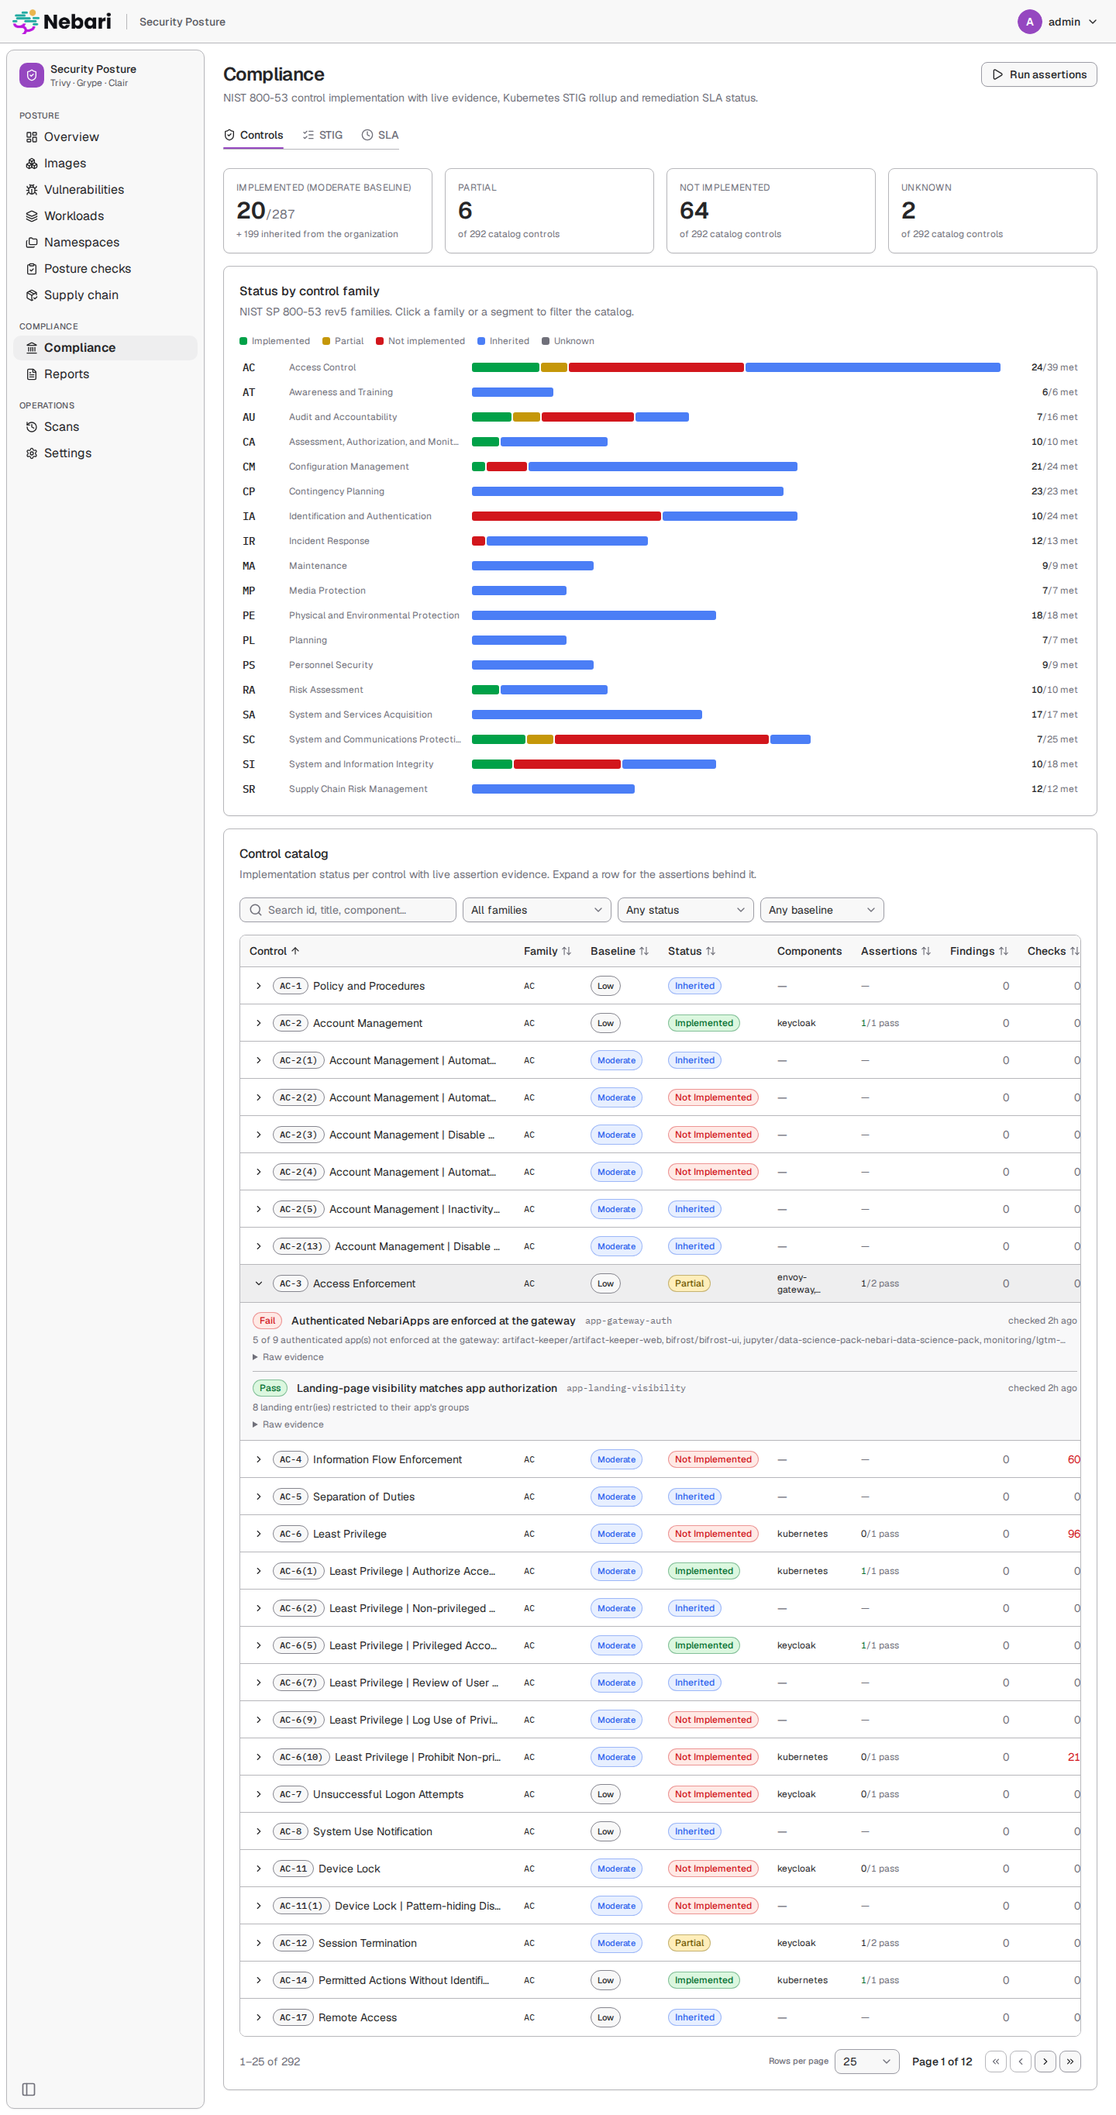
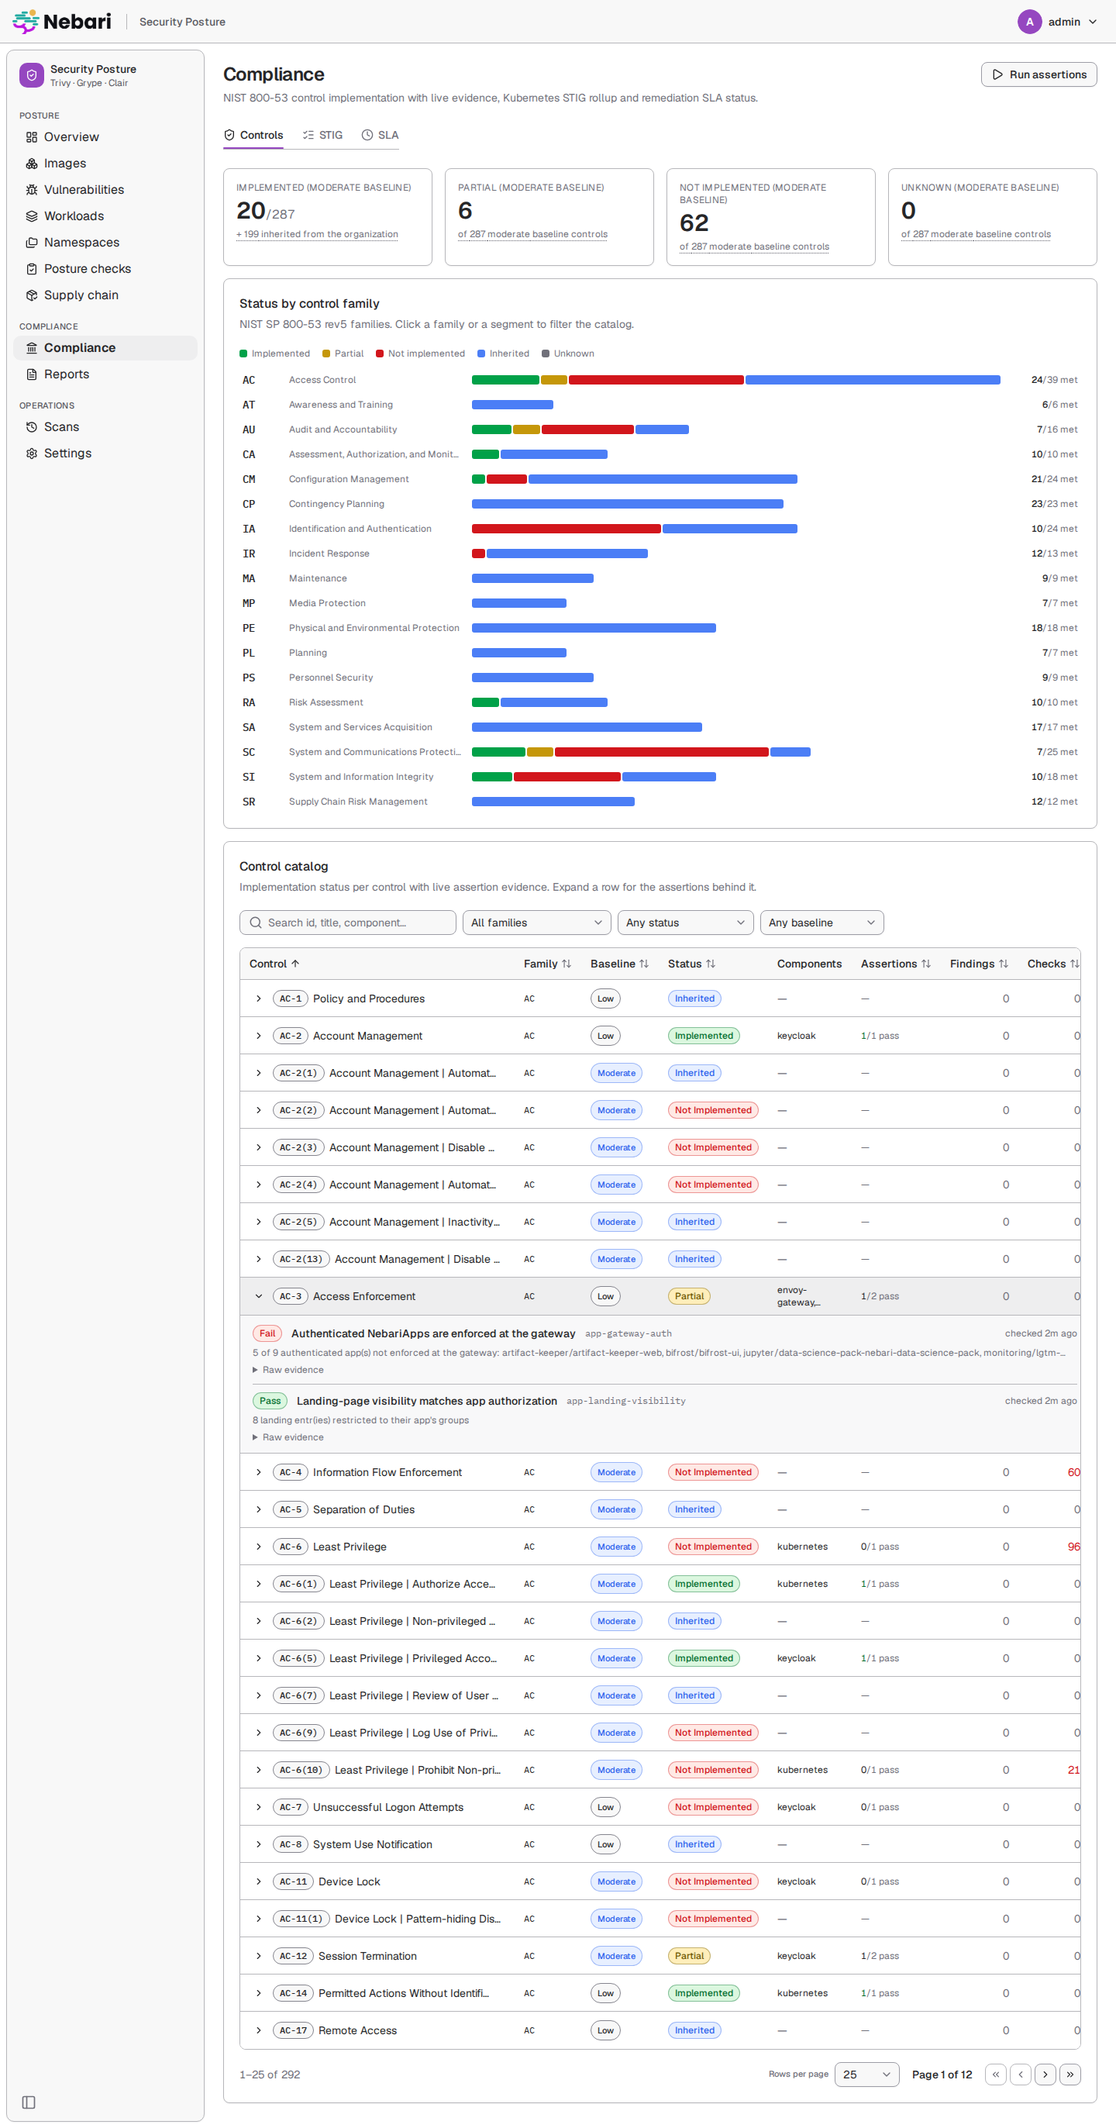
grace: live screenshots after the merged deploy; draft PR description
Overview, Supply chain and Controls after scan 8 (chart
provenance-collector-0.2.0, engine=collector). docs/proposals/PR-DESCRIPTION.md
is the body for the draft PR to nebari-dev/provenance-collector-pack.

diff --git a/docs/proposals/PR-DESCRIPTION.md b/docs/proposals/PR-DESCRIPTION.md
@@ -1,0 +1,265 @@
+# Merge nebari-security-posture-pack: Security Posture, with the collector as the provenance engine
+
+> Draft PR from `brandonrc:security-posture-merge` into `nebari-dev:main`. Background and the
+> agreed plan are in [docs/proposals/0001-merge-with-provenance-collector-pack.md](0001-merge-with-provenance-collector-pack.md).
+> The diagrams are in [docs/ARCHITECTURE.md](../ARCHITECTURE.md).
+
+## Summary
+
+This PR merges `nebari-security-posture-pack` into this repository. The result is one pack, one
+chart and one UI. Together they answer four questions about a cluster:
+
+- **Provenance:** where did every running image come from?
+- **Image vulnerabilities:** what is wrong with each image? Trivy, Grype and Clair scan every image
+  and only findings they agree on are reported.
+- **Workload posture:** how is each container run? Sixteen checks, mapped to the Kubernetes STIG.
+- **Platform controls:** which NIST SP 800-53 controls does the platform implement and prove? 35
+  live assertions, with an OSCAL SSP and component definition.
+
+**The Go collector stays and becomes the provenance engine.** The worker image compiles
+`collector/` into a binary. Once per scan, the worker runs it in a new single-run mode
+(`provenance-collector --once --output <file>`) and loads its report into the database. The
+Python port from the posture pack is now only a fallback.
+
+Existing consumers keep working: the report schema, the `/api/reports*` API, the Grafana
+dashboard (after a URL change), the `config.*` chart values and the chart name.
+
+Both histories are kept. The posture pack was merged with `git merge --allow-unrelated-histories`,
+and every move uses `git mv`, so `git log --follow collector/internal/report/types.go` still
+reaches the original commits.
+
+## What changed
+
+| Area | Change |
+|---|---|
+| `collector/` | The Go module (`cmd/`, `internal/`, `hack/`, `go.mod`, `Makefile`, `.golangci.yml`, `Dockerfile`, `dev/`) moved here unchanged; the module path `github.com/nebari-dev/provenance-collector` is the same. **New:** `--once` and `--output <path\|->` write one report to a file or to stdout. With stdout, logs go to stderr. Without flags nothing changes. Tests: `cmd/provenance-collector/main_test.go` and `report.FileWriter` tests. |
+| `api/` | Python FastAPI api and worker from the posture pack. **New:** `provenance/collector.py` loads the collector's report into the database. Engine selection is `PROVENANCE_ENGINE=collector\|python`, and the Python checks are kept as a fallback (see below). The worker Dockerfile has a `golang:1.26` build stage and installs `/usr/local/bin/provenance-collector`. Its build context is now the repository root. |
+| `ui/` | React 19 + `nebari-design` admin UI (Overview, Images, Vulnerabilities, Workloads, Namespaces, Posture checks, Supply chain, Compliance, Reports, Scans, Settings). It replaces `frontend/`. |
+| `chart/` | The posture chart. Its **name stays `provenance-collector`** and the version is 0.2.0. It deploys api, worker, ui, Postgres, Trivy and Clair. `templates/_compat.tpl` handles values from 0.1.x. The removed templates are the CronJob, the dashboard Deployment, Services and RBAC, and the frontend. |
+| Values | `config.*` keys still work as aliases: `verifySignatures`, `cosignPublicKey`, `checkSBOM`, `checkProvenance`, `checkUpdates`, `updateLevel`, `skipPrerelease`, `helmEnabled`, `registryTimeout`, `excludeNamespaces` and `clusterName`. Values whose behaviour no longer exists stop the render with a message that names the replacement: `schedule`, `persistence.mode`, `frontend.keycloak.url`, and a non-empty `config.namespaces`. Other old keys are ignored and listed in NOTES.txt. |
+| `examples/` | Nebari, standalone and ArgoCD values for the merged chart. The Grafana dashboard now points at `<release>-web-internal`. |
+| Workflows | **lint:** golangci-lint and the configspec/gendocs checks in `collector/`; chart lint, template and kubeconform for six value sets; a values-compatibility job; eslint and tsc for the UI; shellcheck. **test:** go test with `-race`, pytest with a Postgres service, vitest and the UI build. **build-image:** four images (api, worker, ui, standalone collector), each with an SBOM, SLSA provenance and a keyless signature. **release:** the chart (still published as `provenance-collector`) plus collector binaries for linux and darwin on amd64 and arm64. **test-integration:** deploys the merged chart in the NIC sandbox, runs a scan, checks that the collector's report was loaded, and checks `/api/reports/latest`. **docs:** adds a `sync-docs.py --check` step. actionlint 1.7.7 reports no errors. **None of the workflows has run on GitHub yet.** |
+| Docs | The Astro site has new pages: Migrating from 0.1.x, Configuration (chart values), Compliance architecture, Controls, Reports, Supply-chain provenance, Scoring, Design, Decisions and Proposal 0001. The last eight are generated from `docs/*.md` by `scripts/sync-docs.py`, and Mermaid diagrams render. These existing pages were rewritten: index, quick-start, architecture, web UI, storage, report-schema, NebariApp CRD, verifying images. The generated environment-variable reference moved to `collector-environment.md`. |
+| Meta | README uses the posture text with this repo's header block, plus a migration section. CHANGELOG has an Unreleased entry. In `pack-metadata.yaml`, `display_name` is Security Posture and `level` is `experimental`. `name` is still the repo name. |
+
+### How the collector engine works
+
+1. The worker runs `provenance-collector --once` with its own ServiceAccount, using the
+   `PROVENANCE_*` settings derived from the chart values.
+   - The worker's existing reader ClusterRole and the optional `helm-releases` ClusterRole already
+     cover the collector's RBAC needs. The old chart's `configmaps` write permission was only for
+     the ConfigMap output and is not added.
+   - If the cosign key is PEM text, the worker writes it to a temporary file and passes that to
+     the collector. KMS keys and keyless identities stay with the cosign CLI, which re-verifies
+     the digests the collector reports as signed.
+2. Report records are matched to images in this order:
+   1. digest and namespace;
+   2. namespace and spec image;
+   3. digest in any namespace.
+
+   The collector reports the ReplicaSet or Job that owns a container, while the inventory records
+   the controller (Deployment or CronJob). So the workload only breaks ties, using a prefix match.
+   Records that match no image are logged.
+3. Results go into the same tables as the Python checks (`image_provenance`, `images.provenance`,
+   `helm_releases`) and are marked with `details.engine=collector` and the collector version.
+4. Fallbacks:
+   - An image goes through the **Python checks in the same scan** if none of its records has a
+     digest (the collector could not reach its registry, for example the node-local
+     `localhost:32000`) or if the report does not include it.
+   - If the binary exits non-zero, times out or writes an unreadable report, Python handles every
+     image.
+5. **Image update checks stay in Python with both engines** (the collector runs with
+   `PROVENANCE_CHECK_UPDATES=false`). The collector's semver ordering suggests CI build numbers,
+   dates and other image variants as the newest version; on grace it brought back
+   cert-manager `608111629` and grafana `9799770991`. The Python check filters candidate tags
+   (`5ac1e7f`). Porting that filter to `collector/internal/registry/updates.go` is an open question
+   below.
+
+## Compatibility
+
+- **Report schema and API.** These routes are unchanged: `/api/reports`, `/api/reports/latest`,
+  `/api/reports/{filename}`, `/api/export?format=csv|markdown`, `/api/me`, `/api/scan`, `/healthz`.
+  They return the same field order, `omitempty` behaviour and Go `MarshalIndent` formatting,
+  generated from the latest completed scan.
+- **Grafana.** The Infinity datasource URL changes from `<fullname>-web` to
+  `<fullname>-web-internal`. To keep the old host name, set
+  `provenance.compat.internalService.name: provenance-collector-web`.
+- **Chart name.** It stays `provenance-collector`, so ArgoCD Applications keep working. A plain
+  `helm upgrade` from a release that used a different chart name also works: grace went from
+  `nebari-security-posture-pack-0.1.0` to `provenance-collector-0.2.0` with no uninstall.
+- **Standalone collector.** It still works as a binary (now also a release asset) and as the
+  `quay.io/nebari/provenance-collector` image. The standalone Go dashboard still builds from
+  `collector/cmd/dashboard`, but the chart no longer deploys it.
+
+## Migration (breaking for 0.1.x installs)
+
+The full guide is [docs/src/content/docs/migrating.md](../src/content/docs/migrating.md), and the
+README has a short version. In brief:
+
+- **Schedule.** `schedule` (cron) is replaced by `scanner.intervalHours`. Setting `schedule` stops
+  the render with that instruction.
+- **Storage.** `persistence.mode` (http, pvc or configmap) is replaced by Postgres. History is kept
+  per scan, for the last 10 scans. Old report files are **not** imported; the guide shows how to
+  copy them out first.
+- **Auth.** In-browser PKCE login is replaced by gateway login plus API JWT verification, gated on
+  `adminGroups`. `/api/reports*` on the public listener now requires the admin group (it was any
+  logged-in user). Grafana uses the unauthenticated compat Service, which a NetworkPolicy limits to
+  `allowedNamespaces`.
+- **Helm releases.** `config.helmEnabled` still works, but the new default is `false`, because the
+  feature grants cluster-wide Secrets get/list.
+- **Images.** `quay.io/nebari/provenance-collector-pack-{api,worker,ui}`.
+
+## How it was tested
+
+### Test suites (branch HEAD)
+
+| Suite | Result |
+|---|---|
+| `collector/`: `go vet ./...`, `go test ./...` (golang:1.26) | all packages ok, including the new `cmd/provenance-collector` and `report.FileWriter` tests |
+| `collector/`: golangci-lint v2.13.2, `hack/checkenvs`, `hack/gendocs --check` | 0 issues, 30 env vars covered, docs up to date |
+| `api/`: pytest with `CONTROLS_ENGINE_ENABLED=false` and `TEST_DATABASE_URL` (throwaway Postgres 16) | **537 passed, 1 skipped**. Covers the adapter (matching, folding, absence semantics, Helm), the subprocess runner against a fake binary (success, exit 1, bad JSON, timeout), engine selection, keyless post-verification, key-file handoff, the Python update check under the collector engine, and Postgres integration tests for collector ingest with fallback and for binary failure |
+| `ui/`: eslint, `tsc -b --noEmit`, vitest (node:22-alpine) | clean, clean, **59/59**. The flaky Overview controls-tile test now waits for the settled query; the same fix went to the posture repo |
+| Chart: `helm lint`; `helm template` with the defaults, `deploy/grace/values.yaml`, `examples/nebari-values.yaml`, `examples/standalone-values.yaml`, NebariApp + SecurityPolicy, and external DB; kubeconform `-strict` | all pass. The compat aliases and the four render failures were checked by hand and are covered in `lint.yaml` |
+| Docs: vitest, `astro build`, `scripts/check-links.sh` at `BASE=/` and `BASE=/provenance-collector-pack/`, `sync-docs.py --check` | 10/10 tests, 20 pages built, `LINKS_OK` at both bases, in sync |
+| Workflows | actionlint clean. **Not run on GitHub.** |
+
+### Grace (single-node MicroK8s, namespace `security-posture`, `https://security.100-89-230-107.sslip.io`)
+
+The images were built from a clean worktree of the branch HEAD with
+`deploy/grace/build-push.sh`; the deployed tag is `b727589-1791000393`. They were deployed with
+`deploy/grace/deploy.sh`.
+
+**Helm upgrade with the renamed chart:**
+
+- Revision 10 (`nebari-security-posture-pack-0.1.0`) was upgraded to revision 11, then 12
+  (`provenance-collector-0.2.0`). No uninstall was needed.
+- `nameOverride: nebari-security-posture-pack` in the grace values keeps every resource name,
+  every selector label and all 4 PVCs unchanged.
+
+**Pods and NebariApp:**
+
+- The 6 pods (api, worker, ui, postgres, trivy, clair) are Running.
+- NebariApp conditions: Ready, RoutingReady and AuthReady are True. TLSReady is False with reason
+  `ClusterIssuerNotConfigured`; this was already the case before this deploy (the app uses the
+  shared HTTPS listener).
+
+**Login gate:**
+
+- Anonymous requests get a 302 to Keycloak.
+- `admin`: `/api/v1/summary` 200, `/api/reports/latest` 200, and `/api/me` returns
+  `canRunScan: true`.
+- `alice`: the gateway returns 403 ("RBAC: access denied") on every route.
+- `/healthz` returns 200 without login.
+
+**Forced scan #8:** 79 images, 0 failed, 6 min 7 s. Cluster score **27.7 (F)**: vulnerability 8.2,
+configuration 74.8, supply chain 27.4. The worker log and the scan log show:
+
+```
+provenance engine=collector (b727589-1791000393): 99 report record(s) -> 58 image(s) ingested
+  (matched by digest 62, by image 37, by digest in another namespace 0); 0 unmatched record(s);
+  19 image(s) unresolved by the collector and 2 not in its report go to engine=python; 17 helm release(s)
+provenance: 79 image(s), 19 signed, 10 with SBOM, 35 with provenance, 0 registry error(s);
+  17 helm release(s) in 364s (engine=collector 58, engine=python 21)
+```
+
+The 19 images the collector could not resolve use registries the collector cannot reach from the
+pod (`localhost:32000`, the private-CA `artifacts.*` registry) or were rate-limited by Docker Hub.
+The Python fallback scored all of them with 0 registry errors.
+
+**Assertions:** run #4 was triggered by scan 8 and finished `done`. Result: 19 pass, 15 fail,
+1 unknown. Moderate baseline: 20 of 287 implemented, 6 partial, 62 not implemented, 199 inherited.
+
+**Reports:** all six auto-generated types for scan 8 finished `done`: POA&M xlsx, STIG CKLB, SAR
+PDF, OSCAL AR, inventory xlsx, vulnerability CSV. All three OSCAL documents validate against the
+official NIST OSCAL 1.1.2 JSON schemas with **0 errors**:
+
+- assessment-results: 87 MB
+- system-security-plan: 425 KB
+- component-definition: 46 KB
+
+**Compat API from the `monitoring` namespace** (from inside the Grafana pod, to
+`security-posture-web-internal.security-posture.svc:8080`):
+
+- `/api/reports/latest` returns 200 with the scan 8 report.
+- `/api/reports` lists the reports.
+- `/api/export?format=csv` and `/healthz` work.
+- `/api/v1/summary` returns 404: the compat listener exposes nothing else.
+
+**Effect of the update-check fix on the supply-chain score:**
+
+| Scan | Engine and code | Supply-chain score | CI-number or date "newest" tags | Registry errors |
+|---|---|---|---|---|
+| 6 | Python, before `5ac1e7f` | **27.3** | 10 | 6 |
+| 7 | Collector, including the collector's own update check, during Docker Hub 429s | 44.4 (inflated: 23 rate-limited images count as *unknown*, with no penalty) | 8 | 23 |
+| 8 | Collector, with the Python update check (this PR) | **27.4** | **0** | 0 |
+
+- Across the 70 images with no registry error in both scan 6 and scan 8, the mean image
+  supply-chain score went from 25.5 to 26.9. Nine images went up: the bogus major-update penalty
+  (−25) became a real minor update (−15) or disappeared. Examples are cert-manager ×3, kuberay
+  operator, nebari-landing, calico, coredns, and the `checkmaite-api:2.56.0-r*` variant tags.
+- One image went down. `alpine:3.20` lost 15 for "no SLSA provenance", because the collector does
+  not find the attestation the Python checks found, and gained 10 because its date-tag "major
+  update" became a minor update.
+- The cluster score barely moved (27.3 to 27.4), because the 6 images that were *unknown* in scan 6
+  are now scored.
+
+### Screenshots
+
+Live, after scan 8, logged in as `admin`:
+
+- Overview: [deploy/grace/screenshots/overview.png](https://github.com/brandonrc/provenance-collector-pack/blob/security-posture-merge/deploy/grace/screenshots/overview.png)
+- Supply chain: [deploy/grace/screenshots/supply-chain.png](https://github.com/brandonrc/provenance-collector-pack/blob/security-posture-merge/deploy/grace/screenshots/supply-chain.png)
+- Controls (AC-3 evidence expanded): [deploy/grace/screenshots/compliance-controls.png](https://github.com/brandonrc/provenance-collector-pack/blob/security-posture-merge/deploy/grace/screenshots/compliance-controls.png)
+
+## Open questions for the maintainers
+
+1. **License.** The `LICENSE` file in both repositories is the Apache License 2.0 text. This repo's
+   README badge says BSD-3-Clause, and the merge brief also assumed BSD-3. I left `LICENSE`
+   unchanged (Apache-2.0) and kept the badge from this repo's header. Which is right? The badge or
+   the file must change before release.
+2. **Repo and chart name.** Both are unchanged here (repo `provenance-collector-pack`, chart
+   `provenance-collector`, display name "Security Posture"). Should we rename now (proposal: repo
+   and chart `nebari-security-posture-pack`) or after the next release?
+3. **Update-check semantics in Go.** Should the candidate-tag filter (no CI build numbers or dates,
+   same variant suffix, `maxMajorJump`) be ported to `collector/internal/registry/updates.go`, so
+   that update checks can also move to the collector?
+4. **Detection differences.** The collector does not read sigstore-bundle signatures, `.sbom` tags,
+   or SLSA provenance carried in cosign `.att`; the Python checks do (see `alpine:3.20` above).
+   Should these move into the collector, or should the worker keep supplementing it?
+5. **Python port.** When should the Python provenance checks be deleted? They are now only a
+   fallback for registries the collector cannot reach, and that is the main thing keeping them.
+6. **Ownership.** `owner` and `product_owner` in `pack-metadata.yaml`, and CODEOWNERS (which is
+   currently the posture repo's file, `@geraci`).
+7. **Maturity.** Should the pack go back to `experimental` until the integration test covers the
+   combined chart, as the proposal says?
+
+## Known gaps
+
+- None of the GitHub workflows have run. The integration workflow is new and untested, and it has
+  to build the worker image, which is large.
+- The compat report's `metadata.collectorVersion` is the api package version (`0.1.0+posture`), not
+  the collector's version.
+- With the collector engine, signature, SBOM and provenance results are not reused across scans per
+  digest: `recheckHours` applies only to the Python path. Every image is re-checked each scan, so
+  together with the Python fallback the collector engine sends more registry requests than the
+  Python engine alone did. On grace, Docker Hub rate limits (429) were hit while images were being
+  built and scanned in the same hour.
+- `docs/screenshots/dashboard-*.png` (the old dashboard) were removed; the README uses
+  `ui/screenshots/overview-light.png`.
+
+## Checklist
+
+- [x] Both histories kept (`--allow-unrelated-histories`, `git mv` for every move)
+- [x] Collector `--once` / `--output` with tests; default behaviour unchanged
+- [x] Worker bundles the collector; engine selector with Python fallback; adapter tests
+- [x] Chart values compatibility (aliases and failures with clear messages) and migration guide
+- [x] Examples and Grafana dashboard updated
+- [x] Workflows for Go, Python, UI, chart, docs, four images and release assets (actionlint clean)
+- [x] Docs site builds, links checked, Mermaid renders
+- [x] Go, api, ui, chart and docs suites green locally
+- [x] Deployed to grace by helm upgrade in place; scan, assertions, reports and OSCAL validated; compat API checked from `monitoring`; auth gate checked
+- [ ] Workflows green on GitHub
+- [ ] License question resolved
+- [ ] Maintainers' decision on naming, Go update-check semantics and ownership
+
+🤖 Generated with [Claude Code](https://claude.com/claude-code)
